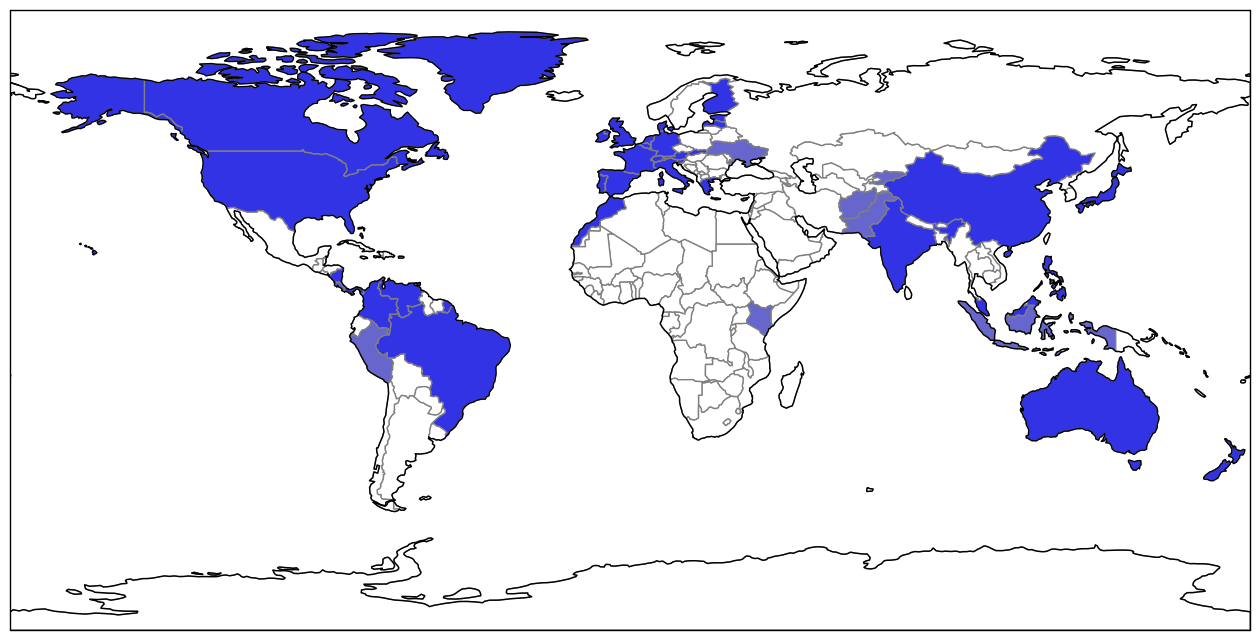
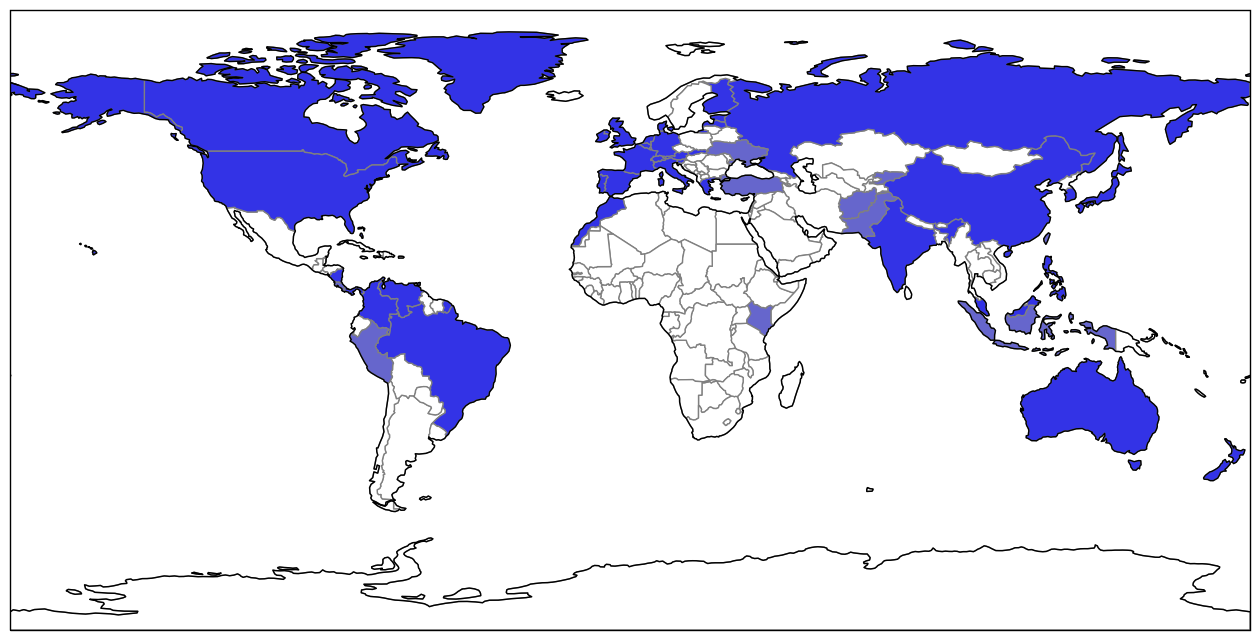
Add Russia, South Korea, and Turkey

Changed region(s): [[0.5571, 0.0625, 1.0, 0.3125], [0.8357, 0.2812, 0.8667, 0.3125], [0.0, 0.125, 0.031, 0.1562]]

diff --git a/README.rst b/README.rst
@@ -156,9 +156,17 @@ Philippines
 From 1942-1945, Japan occupied the Philippines and distributed fiat banknotes.
 I have some, but these were considered illegal tender immediately following WWII.
 
+Russia
+''''''
+The 10-ruble note that I have is dated 1997, but it was actually release in 1998 after the redenomination.
+
 Slovenia
 ''''''''
 The 1 tolar bill that I have doesn't have a year on it, but it was first printed in 1991, so I entered it as being from 1991.
+
+South Korea
+'''''''''''
+The bills that I have don't have years printed on them in any language I can understand, so I put them in as being from the first year that they were each printed, 1983 and 2006.
 
 UK
 ''
